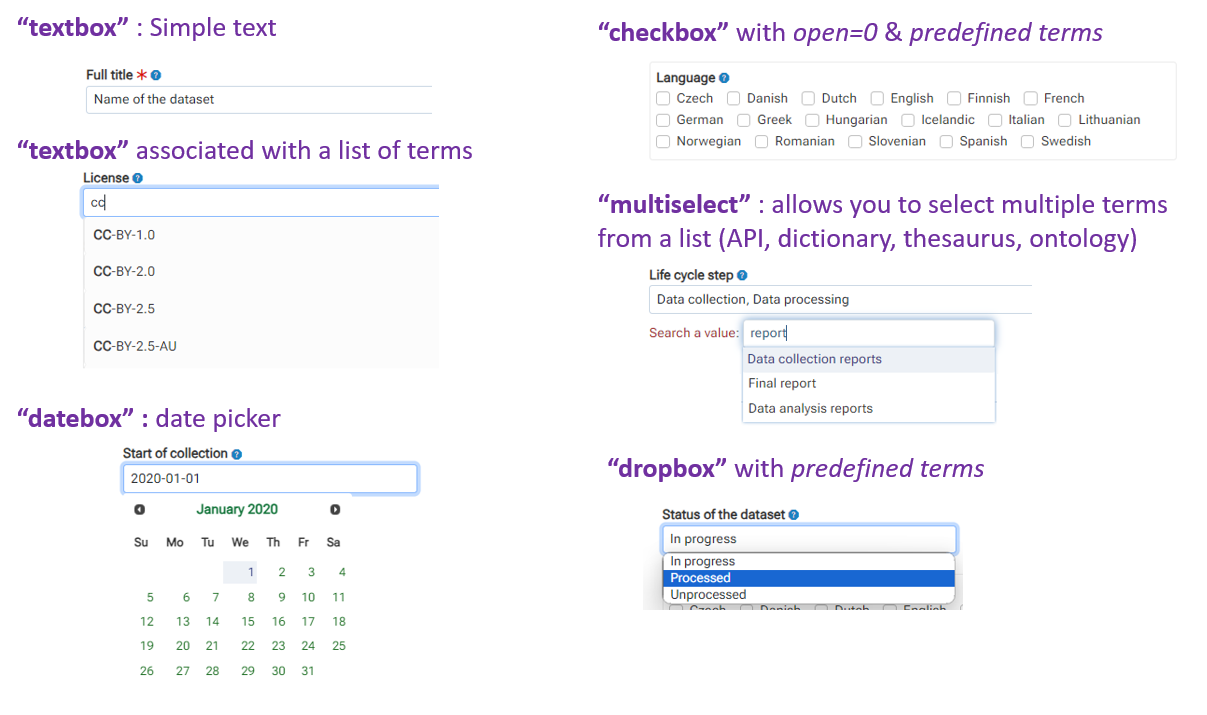
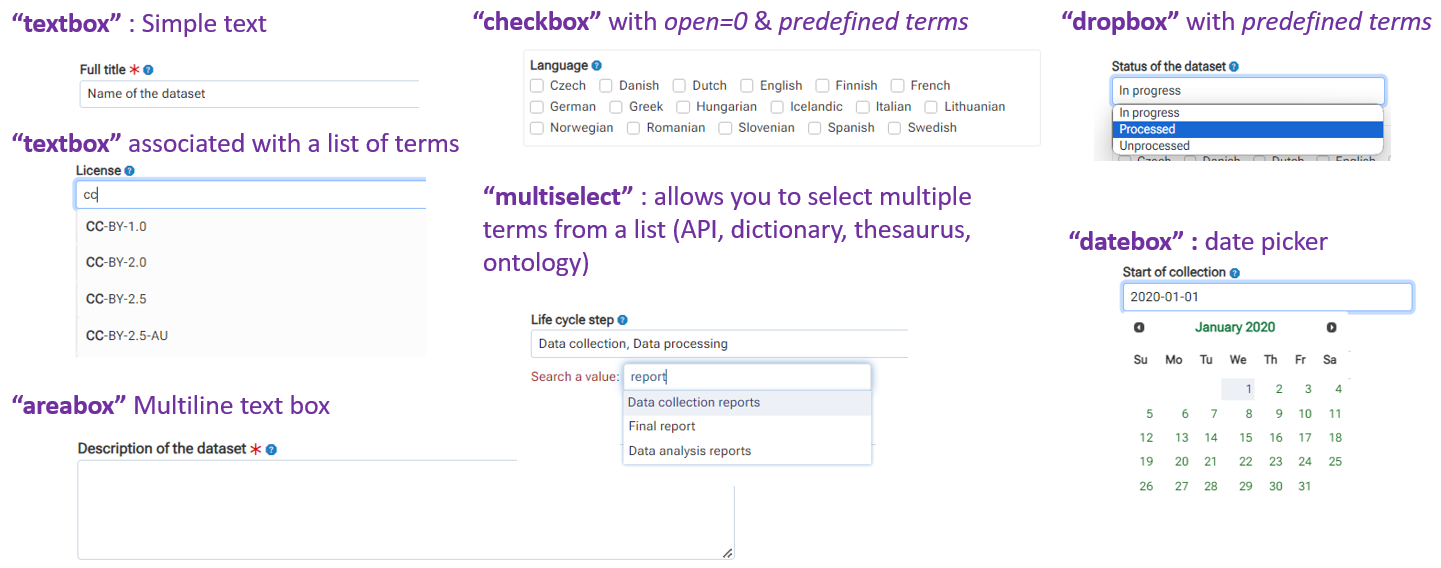
Deployed 947fc86 with MkDocs version: 1.5.3

diff --git a/definitions/terminology/index.html b/definitions/terminology/index.html
@@ -742,7 +742,7 @@
 <p>Each time there is a change in these two definition files, it is necessary to <a href="../../configuration">convert</a> them so that they are taken into account by the application.</p>
 </li>
 </ul>
-<p>Terminology is the set of terms used to define the metadata of a dataset. A single file (<strong><em>web/conf/config_terms.txt</em></strong>) contains all the terminology. The input and search interfaces are completely generated from this definition file, thus defining each of the fields, their input type (checkbox, dropbox, textbox, ...) and the associated controlled vocabulary (ontology and thesaurus by autocompletion, drop-down list according to a list of fixed terms).  It is therefore necessary to create and fill it, according to the following scheme:</p>
+<p>Terminology is the set of terms used to define the metadata of a dataset. A single file (<strong><em>web/conf/config_terms.txt</em></strong>) contains all the terminology. The input and search interfaces are completely generated from this definition file, thus defining each of the fields, their input type (checkbox, dropbox, textbox, ...) and the associated controlled vocabulary (ontology and thesaurus by <abbr title="feature in which an application predicts the rest of a word a user is typing">autocompletion</abbr>, drop-down list according to a list of fixed terms).  It is therefore necessary to create and fill it, according to the following scheme:</p>
 <ul>
 <li>
 <p>Terminology is organised in several sections. By default 6 sections are proposed:</p>
@@ -756,13 +756,16 @@
 </ul>
 </li>
 <li>
-<p>For each section, fields are then defined. These fields can be defined according to the way they will be entered via the web interface. There are 6 different <a href="../../images/terminology_types.png" data-lightbox="fig2">types of input</a>: check boxes (<strong><em>checkbox</em></strong>), drop lists (<strong><em>dropbox</em></strong>), single-line text boxes (<strong><em>textbox</em></strong>), single-line text boxes with an additional box for multiple selection from a catalog of terms (<strong><em>multiselect</em></strong>), date picker (<strong>datebox</strong>) and multi-line text boxes (<strong><em>areabox</em></strong>).</p>
-</li>
-<li>
-<p>For two types (<strong><em>checkbox</em></strong> and <strong><em>dropbox</em></strong>), it is possible to define the values to be selected (predefined terms).</p>
+<p>For each section, fields are then defined. These fields can be defined according to the way they will be entered via the web interface. There are <strong>6 different types of input</strong>: check boxes (<strong><em>checkbox</em></strong>), drop lists (<strong><em>dropbox</em></strong>), single-line text boxes (<strong><em>textbox</em></strong>), single-line text boxes with an additional box for multiple selection from a catalog of terms (<strong><em>multiselect</em></strong>), date picker (<strong>datebox</strong>) and multi-line text boxes (<strong><em>areabox</em></strong>).</p>
 </li>
 </ul>
-<h3 id="structure-of-the-terminology-definition-file-tsv">Structure of the Terminology definition file (TSV)<a class="headerlink" href="#structure-of-the-terminology-definition-file-tsv" title="Permanent link">&para;</a></h3>
+<p><center>
+<a href="../../images/terminology_types.png" data-lightbox="fig0"><img src="../../images/terminology_types.png" width="600px"></a>
+</center></p>
+<ul>
+<li>For two types (<strong><em>checkbox</em></strong> and <strong><em>dropbox</em></strong>), it is possible to define the values to be selected (predefined terms).</li>
+</ul>
+<h3 id="structure-of-the-terminology-definition-file-tsv">Structure of the Terminology definition file (<abbr title="Open text format representing tabular data as &quot;Tab-Separated Values&quot;. Each row corresponds to a table row and the cells in a row are separated by a tab">TSV</abbr>)<a class="headerlink" href="#structure-of-the-terminology-definition-file-tsv" title="Permanent link">&para;</a></h3>
 <p>The file must have 9 columns with headers defined as follows:</p>
 <ul>
 <li>column 1 - <strong>Field</strong> : shortname of the fields</li>
@@ -790,16 +793,16 @@
 </ul>
 </li>
 </ul>
-<p>Below an example of Terminology definition file (TSV)
+<p>Below an example of Terminology definition file (<abbr title="Open text format representing tabular data as &quot;Tab-Separated Values&quot;. Each row corresponds to a table row and the cells in a row are separated by a tab">TSV</abbr>)
 <center>
 <a href="../../images/config_terms_txt.png" data-lightbox="fig1"><img src="../../images/config_terms_txt.png" width="800px"></a>
 </center><br></p>
-<p>Example of Maggot JSON file generated based on the same definition file</p>
+<p>Example of Maggot <abbr title="JavaScript Object Notation : format used to represent structured information">JSON</abbr> file generated based on the same definition file</p>
 <ul>
-<li><a href="https://pmb-bordeaux.fr/maggot/metadata/frim1?format=maggot" target="_blank">Maggot JSON of the FRIM dataset</a></li>
+<li><a href="https://pmb-bordeaux.fr/maggot/metadata/frim1?format=maggot" target="_blank">Maggot <abbr title="JavaScript Object Notation : format used to represent structured information">JSON</abbr> of the FRIM dataset</a></li>
 </ul>
 <p><br></p>
-<h3 id="structure-of-the-terminology-documentation-file-tsv">Structure of the Terminology documentation file (TSV)<a class="headerlink" href="#structure-of-the-terminology-documentation-file-tsv" title="Permanent link">&para;</a></h3>
+<h3 id="structure-of-the-terminology-documentation-file-tsv">Structure of the Terminology documentation file (<abbr title="Open text format representing tabular data as &quot;Tab-Separated Values&quot;. Each row corresponds to a table row and the cells in a row are separated by a tab">TSV</abbr>)<a class="headerlink" href="#structure-of-the-terminology-documentation-file-tsv" title="Permanent link">&para;</a></h3>
 <p>The documentation definition fileis used to have online help for each field (small icon placed next to each label on the form). So it should only be modified when a field is added or deleted, or moved to another section.</p>
 <p>The file must have 3 columns with headers defined as follows:</p>
 <ul>
@@ -807,31 +810,11 @@
 <li>column 2 - <strong>Name</strong> : Name of the element. The names of the sections, variables and drop-down options must be exactly the same as those specified in the terminology definition file.</li>
 <li>column 3 - <strong>Description</strong> : The description corresponding to the element, serving as much as possible to give indications on the information to be selected or entered, in order to remove possible ambiguities.</li>
 </ul>
-<p>Below an example of Terminology documentation file (TSV)
+<p>Below an example of Terminology documentation file (<abbr title="Open text format representing tabular data as &quot;Tab-Separated Values&quot;. Each row corresponds to a table row and the cells in a row are separated by a tab">TSV</abbr>)
 <center>
 <a href="../../images/config_doc_txt.png" data-lightbox="fig2"><img src="../../images/config_doc_txt.png" width="800px"></a>
 </center><br></p>
 <p><br></p>
-<div class="footnote">
-<hr />
-<ol>
-<li id="fn:1">
-<p><em>JavaScript Object Notation</em> : format used to represent structured information&#160;<a class="footnote-backref" href="#fnref:1" title="Jump back to footnote 1 in the text">&#8617;</a></p>
-</li>
-<li id="fn:2">
-<p><em>JSON-Schema</em>: vocabulary that allows you to annotate and validate JSON documents.&#160;<a class="footnote-backref" href="#fnref:2" title="Jump back to footnote 2 in the text">&#8617;</a></p>
-</li>
-<li id="fn:3">
-<p><em>TSV</em>: open text format representing tabular data as "tab-separated values". Each row corresponds to a table row and the cells in a row are separated by a tab.&#160;<a class="footnote-backref" href="#fnref:3" title="Jump back to footnote 3 in the text">&#8617;</a></p>
-</li>
-<li id="fn:4">
-<p><em>Markdown</em>: Markdown is a lightweight markup language designed to provide easy-to-read and easy-to-write syntax. A Markdown document can be read as is without appearing to have been marked up or formatted with special instructions.&#160;<a class="footnote-backref" href="#fnref:4" title="Jump back to footnote 4 in the text">&#8617;</a></p>
-</li>
-<li id="fn:5">
-<p><em>Autocomplete</em>: feature in which an application predicts the rest of a word a user is typing&#160;<a class="footnote-backref" href="#fnref:5" title="Jump back to footnote 5 in the text">&#8617;</a></p>
-</li>
-</ol>
-</div>
 
 
 

diff --git a/definitions/vocabulary/index.html b/definitions/vocabulary/index.html
@@ -735,9 +735,9 @@
 <a href="../../images/vocabulary_fig2.png" data-lightbox="fig2"><img src="../../images/vocabulary_fig2.png" width="800px"></a>
 </center>
 <br></p>
-<p><strong>3</strong> - <strong>Vocabulary based on a web API in a text field</strong> (<em>textbox</em>)</p>
+<p><strong>3</strong> - <strong>Vocabulary based on a web <abbr title="Application Program Interface in contrast with a User Interface. It is a way for two or more computer programs to communicate with each other.">API</abbr> in a text field</strong> (<em>textbox</em>)</p>
 <ul>
-<li>The <a href="https://en.wikipedia.org/wiki/Web_API" target="_blank">web API</a> is defined in a <a href="https://en.wikipedia.org/wiki/JavaScript" target="_blank">JavaScript</a> file with the same name as the assigned variable (here <em>cities</em>) and must present under <em>web/js/autocomplete</em>. For example, to enter a French city you can use the API <a href="https://geo.api.gouv.fr/decoupage-administratif" target="_blank">geo.api.gouv.fr</a>. See <a href="https://github.com/inrae/pgd-mmdt/blob/main/web/js/autocomplete/cities.js" target="_blank">cities.js</a></li>
+<li>The <a href="https://en.wikipedia.org/wiki/Web_API" target="_blank">web <abbr title="Application Program Interface in contrast with a User Interface. It is a way for two or more computer programs to communicate with each other.">API</abbr></a> is defined in a <a href="https://en.wikipedia.org/wiki/JavaScript" target="_blank">JavaScript</a> file with the same name as the assigned variable (here <em>cities</em>) and must present under <em>web/js/autocomplete</em>. For example, to enter a French city you can use the <abbr title="Application Program Interface in contrast with a User Interface. It is a way for two or more computer programs to communicate with each other.">API</abbr> <a href="https://geo.api.gouv.fr/decoupage-administratif" target="_blank">geo.api.gouv.fr</a>. See <a href="https://github.com/inrae/pgd-mmdt/blob/main/web/js/autocomplete/cities.js" target="_blank">cities.js</a></li>
 </ul>
 <p><center>
 <a href="../../images/vocabulary_fig3.png" data-lightbox="fig3"><img src="../../images/vocabulary_fig3.png" width="800px"></a>
@@ -745,7 +745,7 @@
 <br></p>
 <p><strong>4</strong> - <strong>Vocabulary based on a dictionary with multiple selection</strong> (<em>multiselect</em>) </p>
 <ul>
-<li><a href="../../dictionaries">Dictionaries</a> allow you to record multiple information necessary to define an entity, such as the names of people or even the funders. These information, once entered and saved in a file called a dictionary. Based on a very simple JavaScript retrieving the complete list of items included in the dictionary, thus creating a sort of internal API, we can fill a Maggot field by  autocompletion related to a search for these items.</li>
+<li><a href="../../dictionaries">Dictionaries</a> allow you to record multiple information necessary to define an entity, such as the names of people or even the funders. These information, once entered and saved in a file called a dictionary. Based on a very simple JavaScript retrieving the complete list of items included in the dictionary, thus creating a sort of internal <abbr title="Application Program Interface in contrast with a User Interface. It is a way for two or more computer programs to communicate with each other.">API</abbr>, we can fill a Maggot field by  autocompletion related to a search for these items.</li>
 <li>The JavaScript file must be named <em><strong>dico.js</strong></em> and be present under <em><strong>web/cvlist/<em>dico</em>/</strong></em> where <em><strong>dico</strong></em> is the name of the dictionary. See for instance <em><a href="https://github.com/inrae/pgd-mmdt/tree/main/web/cvlist/people/people.js" target="_blank">people.js</a></em></li>
 </ul>
 <p><center>
@@ -754,7 +754,7 @@
 <br></p>
 <p><strong>5</strong> - <strong>Vocabulary based on a SKOSMOS Thesaurus with multiple selection</strong> (<em>multiselect</em>) </p>
 <ul>
-<li><a href="https://skosmos.org/" target="_blank">SKOSMOS</a> is a web tool facilitating the posting of controlled vocabulary online in the form of a <a href="https://en.wikipedia.org/wiki/Thesaurus_(information_retrieval)" target="_blank">thesaurus</a> according to the <a href="https://en.wikipedia.org/wiki/Simple_Knowledge_Organization_System" target="_blank">SKOS</a> data model. It offers a navigation interface as well as a web API interface. A simple JavaScript allows you to easily connect this web API with a multiselect field.</li>
+<li><a href="https://skosmos.org/" target="_blank">SKOSMOS</a> is a web tool facilitating the posting of controlled vocabulary online in the form of a <a href="https://en.wikipedia.org/wiki/Thesaurus_(information_retrieval)" target="_blank">thesaurus</a> according to the <a href="https://en.wikipedia.org/wiki/Simple_Knowledge_Organization_System" target="_blank">SKOS</a> data model. It offers a navigation interface as well as a web <abbr title="Application Program Interface in contrast with a User Interface. It is a way for two or more computer programs to communicate with each other.">API</abbr>. A simple JavaScript allows you to easily connect this web <abbr title="Application Program Interface in contrast with a User Interface. It is a way for two or more computer programs to communicate with each other.">API</abbr> with a multiselect field.</li>
 <li>The JavaScript file must have the same name as the assigned variable (here <em>VOvocab</em>) and must present under <em>web/js/autocomplete</em>. See for instance <a href="https://github.com/inrae/pgd-mmdt/blob/main/web/js/autocomplete/VOvocab.js" target="_blank">VOvocab.js</a>.</li>
 </ul>
 <p><center>

diff --git a/definitions/index.html b/definitions/index.html
@@ -674,7 +674,7 @@
 <p>The Maggot tool offers <a href="https://inrae.github.io/pgd-mmdt/pdf/MAGGOT_OpenData_Oct2023.pdf?download=false" target="_blank">great flexibility in configuration</a>. It allows you to completely choose all the metadata you want to describe your data. You can base yourself on an existing <a href="https://en.wikipedia.org/wiki/Metadata_standard" target="_blank">metadata schema</a>, invent <a href="https://committee.iso.org/files/live/sites/tc46sc11/files/documents/N800R1%20Where%20to%20start-advice%20on%20creating%20a%20metadata%20schema.pdf" target="_blank">your own schema</a><sup id="fnref:1"><a class="footnote-ref" href="#fn:1">1</a></sup> or, more pragmatically, mix one or more schemas by introducing some metadata specific to your field of application. However, keep in mind that if you want to add descriptive metadata to your data then a <a href="https://libraries.mit.edu/data-management/store/documentation/" target="_blank">certain amount of information</a> is expected. But a completely different use of the tool is possible, it's up to you.</p>
 <p>There are <strong>two levels of definition files</strong> as shown the figure below:</p>
 <p><center><a href="../images/definitions_fig2.png" data-lightbox="fig2"><img src="../images/definitions_fig2.png" width="600px"></a></center></p>
-<p><strong>1</strong> - The first level concerns the definition of terminology (metadata). Clearly, this category is more akin to application configuration files. They represent the heart of the application around which everything else is based. The input and search interfaces are completely generated from these definition files (especially the <em><a href="terminology">web/conf/config_terms.txt</a></em> file), thus defining each of the fields, their input type (checkbox, dropbox, textbox, ...) and the associated <a href="vocabulary">controlled vocabulary</a> (ontology and thesaurus by <abbr title="feature in which an application predicts the rest of a word a user is typing">autocompletion</abbr>, drop-down list according to a list of fixed terms). This is why a <a href="../configuration">configuration and conversion step</a> into <abbr title="JavaScript Object Notation : format used to represent structured information">JSON</abbr> format is essential in order to be able to configure all the other modules.</p>
+<p><strong>1</strong> - The first level concerns the definition of terminology (metadata). Clearly, this category is more akin to application configuration files. They represent the heart of the application around which everything else is based. The input and search interfaces are completely generated from these definition files (especially the <em><a href="terminology">web/conf/config_terms.txt</a></em> file), thus defining each of the fields, their input type (<em>checkbox</em>, <em>dropbox</em>, <em>textbox</em>, ...) and the associated <a href="vocabulary">controlled vocabulary</a> (ontology and thesaurus by <abbr title="feature in which an application predicts the rest of a word a user is typing">autocompletion</abbr>, drop-down list according to a list of fixed terms). This is why a <a href="../configuration">configuration and conversion step</a> into <abbr title="JavaScript Object Notation : format used to represent structured information">JSON</abbr> format is essential in order to be able to configure all the other modules.</p>
 <p><strong>2</strong> - The second level concerns the definitions of mapping to a differently structured metadata schema (e.g. <a href="dataverse">Dataverse</a>, <a href="json-ld"><abbr title="JavaScript Object Notation : format used to represent structured information">JSON</abbr>-LD</a>, <a href="oai-pmh">OAI-PMH</a>). Simply place the definition files in the configuration directory (<em><a href="https://github.com/inrae/pgd-mmdt/tree/main/web/conf" target="_blank">web/conf</a></em>) for them to be taken into account, provided you have adjusted the configuration (<em><a href="https://github.com/inrae/pgd-mmdt/blob/main/web/inc/config/config.inc" target="_blank">web/inc/config/config.inc</a></em>).</p>
 <p>All definition files are made using a simple spreadsheet then exported in <abbr title="Open text format representing tabular data as &quot;Tab-Separated Values&quot;. Each row corresponds to a table row and the cells in a row are separated by a tab">TSV</abbr> format. </p>
 <p>The list of definition files in Maggot are given below. All must be put under the directory <em><a href="https://github.com/inrae/pgd-mmdt/tree/main/web/conf" target="_blank">web/conf</a></em>.
